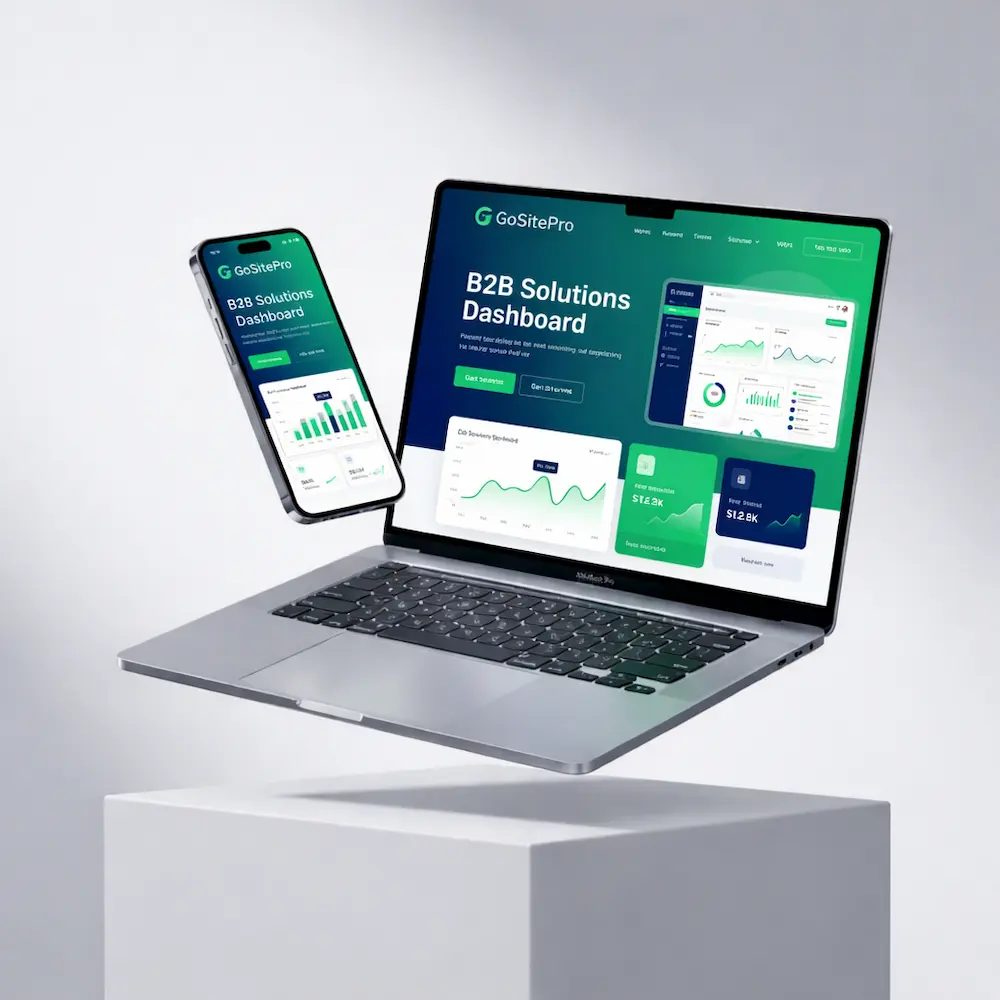
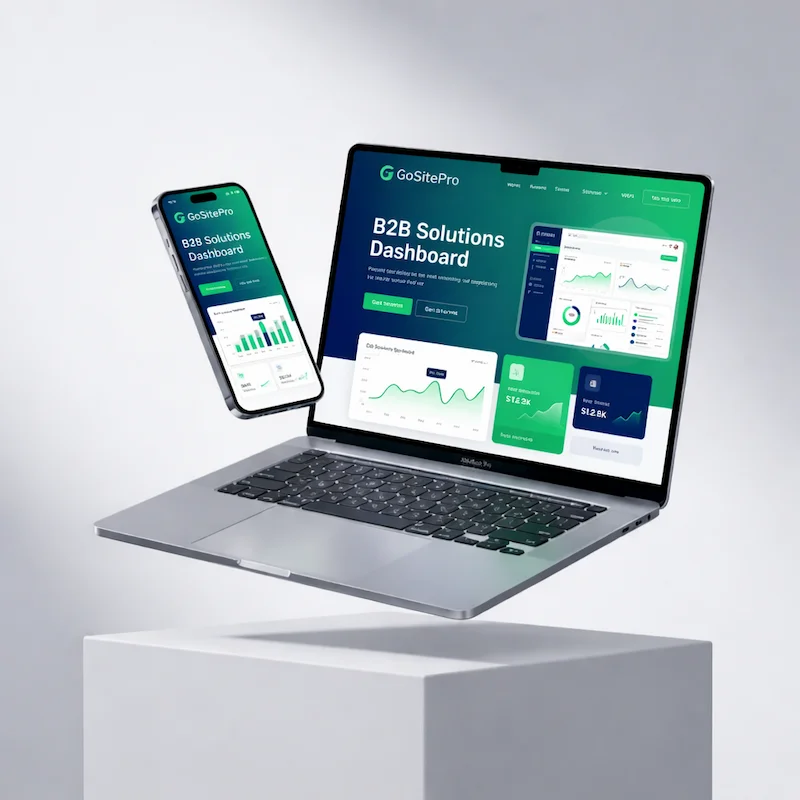
fix performance issue due to image dimension and priority true

diff --git a/package/src/app/components/Home/Hero/index.tsx b/package/src/app/components/Home/Hero/index.tsx
@@ -205,7 +205,7 @@ const Hero = () => {
                   style={{ width: '100%', height: '100%', objectFit: 'cover' }}
                   sizes="(max-width: 1024px) 100vw, 50vw"
                   className='transform group-hover:scale-105 transition-transform duration-700'
-                  priority
+                  priority={true}
                 />
               </div>
             </div>
